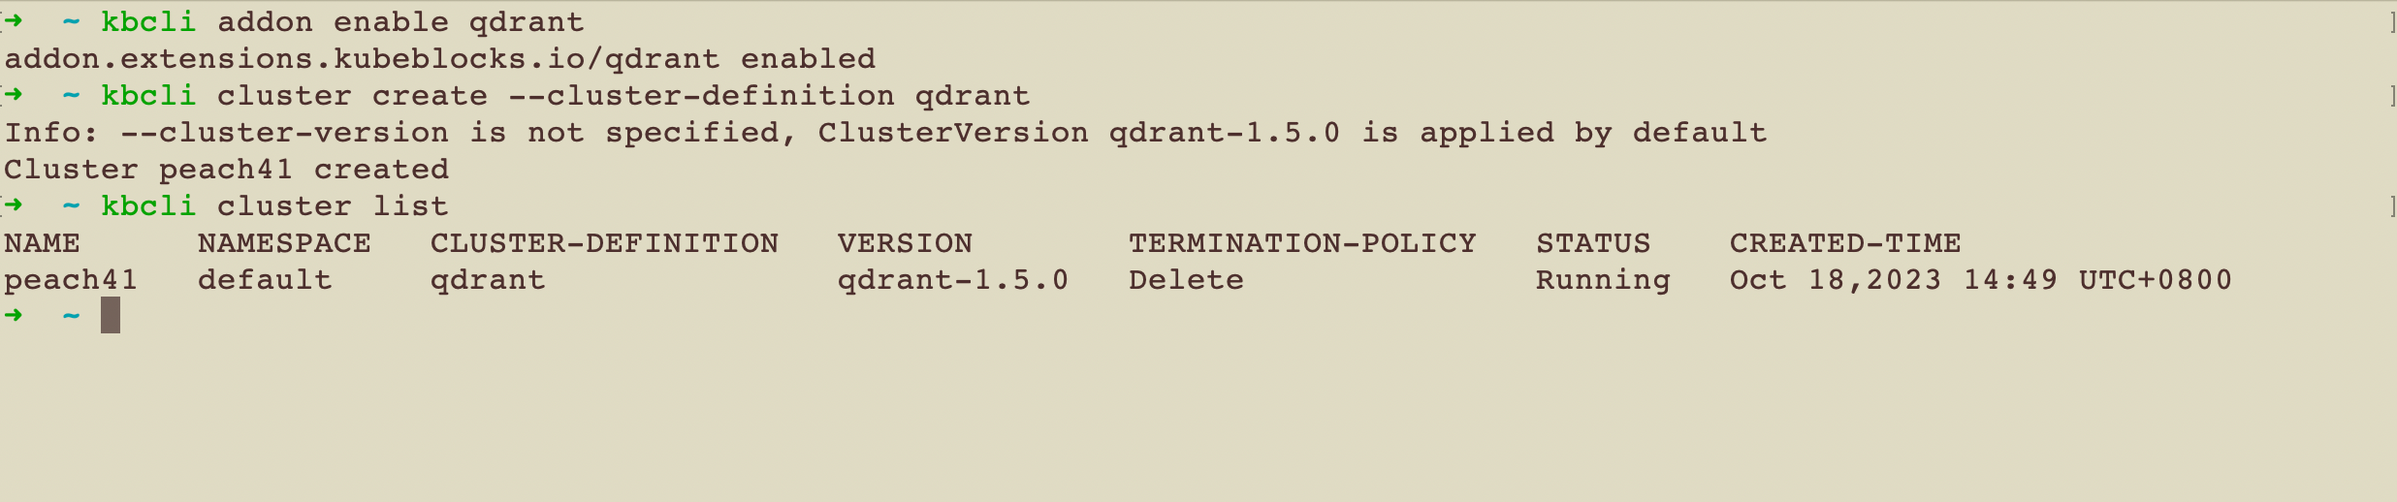
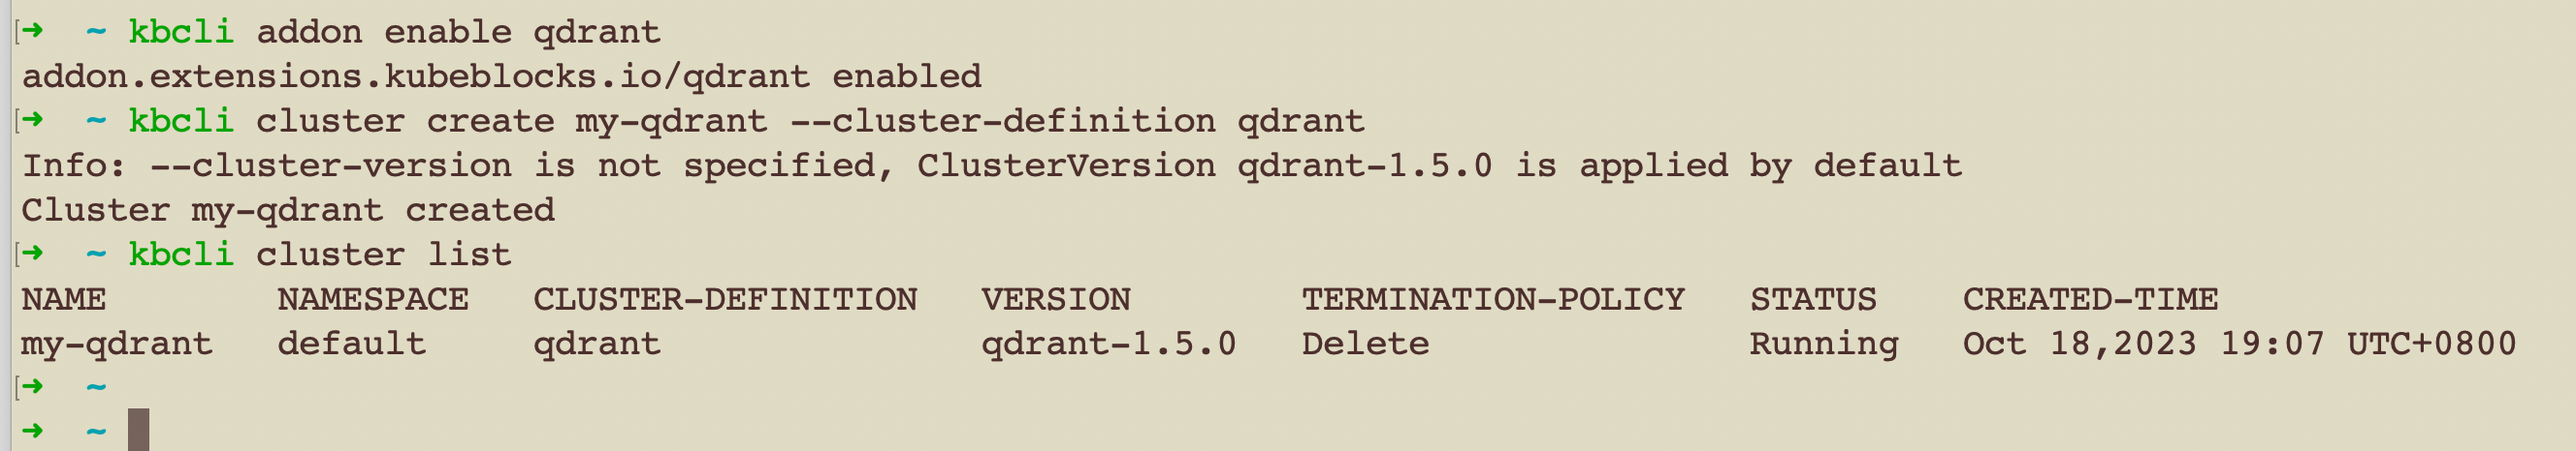
fix demo

diff --git a/aigc/README.md b/aigc/README.md
@@ -17,13 +17,13 @@ KubeBlocks supports the management of vector databases, such as Qdrant, Milvus, 
 
 1. enable `qdrant` addon
     
-   using `kbcil addon enable qdrant` enable qdrant addon. 
+   using `kbcli addon enable qdrant` enable qdrant addon. 
    
    You can use `kbcli clusterdefinition list` to check if the addon is ready.
    ![cd-list](/aigc/img/cd-list.png)
 2. create qdrant cluster
 
-    using `kbcli cluster create --cluster-defnition qdrant` and `kbcli cluster list` to check if the cluster is Running. This process typically takes 5-8 minutes, depending on your network conditions.
+    using `kbcli cluster create my-qdrant --cluster-defnition qdrant` and `kbcli cluster list` to check if the cluster is Running. This process typically takes 5-8 minutes, depending on your network conditions.
     ![cluster-create](/aigc/img/cluster-create.png)
 
 ## Deploy private LLM in KubeBlocks
@@ -37,6 +37,7 @@ In addition, KubeBlocks also provides Jupyter application that support most AIGC
 
 1.  using `kbcli addon enable jupyter-notebook` enable jupyter-notebook application
 2. using `kbcli dashboard open jupyter-notebook` open the Jupyter dashboard.
+![open-jupyter](/aigc/img/open-jupyter.png)
 
 ### An AI question-and-answer assistant demo in KubeBlocks AIGC infrastructure
 Next,I will demonstrate a demo of building an intelligent AI question-and-answer assistant for the KubeBlocks user-docs on the AIGC infrastructure built on KubeBlocks.
@@ -78,13 +79,13 @@ import qdrant_client
 from llama_index.vector_stores.qdrant import QdrantVectorStore
 from qdrant_client.models import VectorParams,Distance
 ```
-When creating a client to connect to the vector database, we need to know the backend address of that database. You can use the 'kbcil cluster describe' command to view the vector database information in KubeBlocks.
+When creating a client to connect to the vector database, we need to know the backend address of that database. You can use the `kbcli cluster describe` command to view the vector database information in KubeBlocks.
 ![cluster-describe](/aigc/img/cluster-describe.png)
 ```python
 """
 `kbcli cluster describe <qdrant_cluster_name>` get the qdrant server's information 
 """
-url = "peach41-qdrant.default.svc.cluster.local"
+url = "my-qdrant-qdrant.default.svc.cluster.local"
 port = 6333
 grpc_port = 6334
 distance = "Cosine"
@@ -145,12 +146,15 @@ for root, dirs, files in os.walk(directory):
         process_file(file_path)
 ```
 And We have currently added visualization support for the Qdrant. You can use 'kubectl' to port-forward the Qdrant service to your local machine and view the vector database's status in a web page to confirm that the documents have been loaded into the vector database.
-`kubectl port-forward service/peach41-qdrant 10000:3000 6333:6333`("3000" is the web-ui service port and "6333" is the database service port.)
 
+- `kubectl port-forward services/my-qdrant-qdrant 10000:3000 6333:6333`("3000" is the web-ui service port and "6333" is the database service port.)
+- open `127.0.0.1:10000` in your browser.
 ![qdrant-web-ui](/aigc/img/qdrant-web-ui.png)
 
 #### Query with LLM
 Finally, we will implement the functionality to query with private LLM. In this step, we will embed the query question, perform a 'similarity match' query in the vector database, and then use a custom prompt to call our deployed private LLM API to obtain the query result.
+
+
 ```python
 from langchain import PromptTemplate
 from pydantic import BaseModel
@@ -191,12 +195,22 @@ prompt_template = """
 """
 prompt = PromptTemplate.from_template(prompt_template)
 prompt_str = prompt.format(query=query_str, context=pack_context)
+# check our prompt_str
+print(prompt_str)
+```
+![check-prompt](/aigc/img/check-prompt.png)
 
+```python
+# use our private LLM API 
 LLM_API = "http://a780a53170a7140f58efd575b03d60b5-667ac4219aac185d.elb.ap-northeast-1.amazonaws.com:8000/generate_stream"
 data = {
     "prompt": prompt_str,
 }
-response = requests.post(LLM_API, json=data,stream=False)
-print(response)
+response = requests.post(LLM_API, json=data,stream=True)
+
+for chunk in response.iter_lines(chunk_size=2048, decode_unicode=False, delimiter=b"\0"):
+    if chunk:
+        data = json.loads(chunk.decode("utf-8"))
+        print(data.text)
 ```
 
